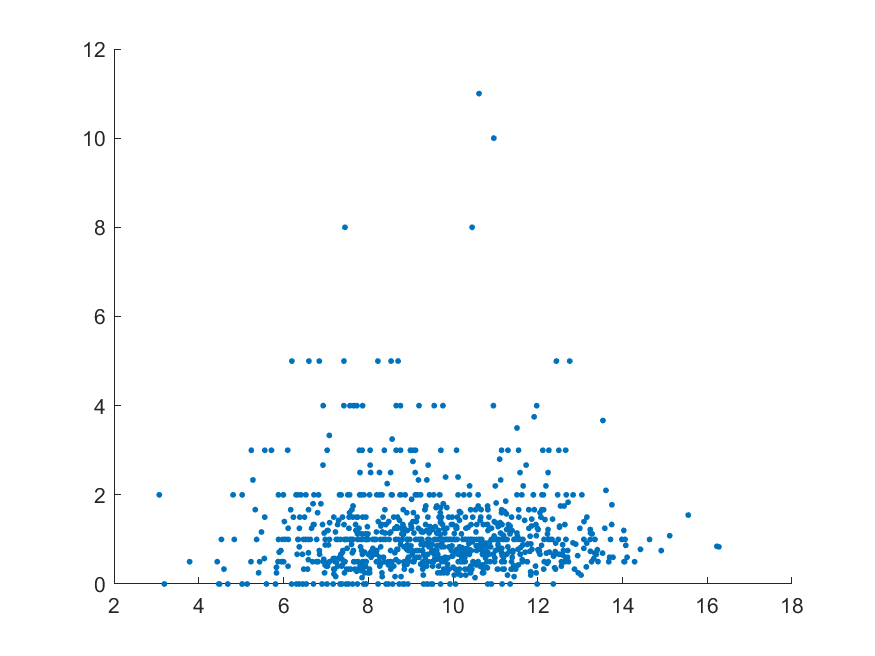
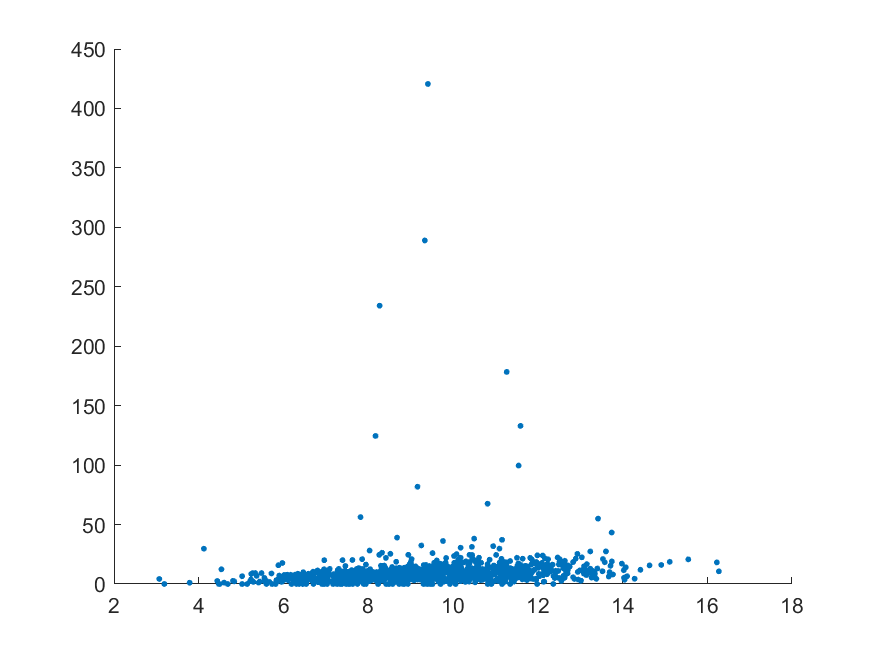
Plot Update

diff --git a/ModelAttemptWPF/Analysis/scatterTraits.m b/ModelAttemptWPF/Analysis/scatterTraits.m
@@ -34,34 +34,36 @@ for fileIndex = 1:varParamVals_len
         runParam = [varParamVals{fileIndex} int2str(i)];
         disp(runParam)
         nSharesPop=csvread(fileName,1,1);
-        OL(i,:)=nSharesPop(:,7);
-        fakeShares(i,:)=nSharesPop(:,9);
+        nFollowers(i,:)=nSharesPop(:,1);
         o(i,:)=nSharesPop(:,2);
         c(i,:)=nSharesPop(:,3);
         e(i,:)=nSharesPop(:,4);
         a(i,:)=nSharesPop(:,5);
         n(i,:)=nSharesPop(:,6);
-        trueShares(i,:)=nSharesPop(:,10);
+        OL(i,:)=nSharesPop(:,7);
+        trueShares(i,:)=nSharesPop(:,8);
+        fakeShares(i,:)=nSharesPop(:,9);
+        ratio(i,:)=nSharesPop(:,10);
         freqUse(i,:)=nSharesPop(:,11);
         sessionLength(i,:)=20.*(nSharesPop(:,12));
         shareFreq(i,:)=nSharesPop(:,13);
-        ratio(i,:)=nSharesPop(:,9)./nSharesPop(:,10);
-        nFollowers(i,:)=nSharesPop(:,1);
     end
-    OL_all=reshape(OL,[1,nRuns.*population]);
-    fakeShares_all=reshape(fakeShares,[1,nRuns*population]);
-    trueShares_all=reshape(trueShares,[1,nRuns*population]);
-    ratio_all=reshape(ratio,[1,nRuns*population]);
     nFollowers_all=reshape(nFollowers,[1,nRuns*population]);
     o_all=reshape(o,[1,nRuns*population]);
     c_all=reshape(c,[1,nRuns*population]);
     e_all=reshape(e,[1,nRuns*population]);
     a_all=reshape(a,[1,nRuns*population]);
     n_all=reshape(n,[1,nRuns*population]);
-    shareFreq_all=reshape(shareFreq,[1,nRuns*population]);
-    sessionLength_all=reshape(sessionLength,[1,nRuns*population]);
-    roundSL_all=ceil(sessionLength_all);
+    OL_all=reshape(OL,[1,nRuns.*population]);
+    trueShares_all=reshape(trueShares,[1,nRuns*population]);
+    fakeShares_all=reshape(fakeShares,[1,nRuns*population]);
+    ratio_all=reshape(ratio,[1,nRuns*population]);
     freqUse_all=reshape(freqUse,[1,nRuns*population]);
+    sessionLength_all=reshape(sessionLength,[1,nRuns*population]);
+    % // TODO 
+    % ? Should this be a ceiling function
+    roundSL_all=ceil(sessionLength_all);
+    shareFreq_all=reshape(shareFreq,[1,nRuns*population]);
     % sort them all
     %[OL_all,indices]=sort(OL_all);
     %fakeShares_all=fakeShares_all(indices);
@@ -97,71 +99,73 @@ for fileIndex = 1:varParamVals_len
     histogram(e_all,nBins,'Normalization','pdf');
     eLine=normpdf(sort(e_all),0.648,0.164);
     hold on
-    % plot(sort(e_all),eLine,'k-','LineWidth',2)
+    %plot(sort(e_all),eLine,'k-','LineWidth',2)
     hold off
 
     figure()
     histogram(o_all,nBins,'Normalization','pdf');
     oLine=normpdf(sort(o_all),0.734,0.128);
     hold on
-    % plot(sort(o_all),oLine,'k-','LineWidth',2)
+    %plot(sort(o_all),oLine,'k-','LineWidth',2)
     hold off
 
     figure()
     histogram(c_all,nBins,'Normalization','pdf');
     cLine=normpdf(sort(c_all),0.73,0.14);
     hold on
-    % plot(sort(c_all),cLine,'k-','LineWidth',2)
+    %plot(sort(c_all),cLine,'k-','LineWidth',2)
     hold off
 
     figure()
     histogram(a_all,nBins,'Normalization','pdf');
     aLine=normpdf(sort(a_all),0.748,0.124);
     hold on
-    % plot(sort(a_all),aLine,'k-','LineWidth',2)
+    %plot(sort(a_all),aLine,'k-','LineWidth',2)
     hold off
 
     figure()
     histogram(n_all,nBins,'Normalization','pdf');
     nLine=normpdf(sort(n_all),0.594,0.16);
     hold on
-    % plot(sort(n_all),nLine,'k-','LineWidth',2)
+    %plot(sort(n_all),nLine,'k-','LineWidth',2)
     hold off
     %%
-    % plotScatter(o_all,ratio_all,'Openness','Ratio of fake to true shares')
-    % plotScatter(c_all,ratio_all,'Conscientiousness','Ratio of fake to true shares')
-    % plotScatter(e_all,ratio_all,'Extroversion','Ratio of fake to true shares')
-    % plotScatter(a_all,ratio_all,'Agreeableness','Ratio of fake to true shares')
-    % plotScatter(n_all,ratio_all,'Neuroticism','Ratio of fake to true shares')
+    plotScatter(o_all,ratio_all,'Openness','Ratio of fake to true shares')
+    plotScatter(c_all,ratio_all,'Conscientiousness','Ratio of fake to true shares')
+    plotScatter(e_all,ratio_all,'Extroversion','Ratio of fake to true shares')
+    plotScatter(a_all,ratio_all,'Agreeableness','Ratio of fake to true shares')
+    plotScatter(n_all,ratio_all,'Neuroticism','Ratio of fake to true shares')
     %%
     % close all
-    % plotScatter(c_all,freqUse_all,'Conscientiousness','Frequeny of use')
-    % plotScatter(e_all,freqUse_all,'Extroversion','Frequency of use')
-    % plotScatter(a_all,freqUse_all,'Agreeableness','Frequency of use')
-    % plotScatter(n_all,freqUse_all,'Neuroticism','Frequency of use')
+    plotScatter(c_all,freqUse_all,'Conscientiousness','Frequeny of use')
+    plotScatter(e_all,freqUse_all,'Extroversion','Frequency of use')
+    plotScatter(a_all,freqUse_all,'Agreeableness','Frequency of use')
+    plotScatter(n_all,freqUse_all,'Neuroticism','Frequency of use')
     %%
     % close all
-    % plotScatter(c_all,sessionLength_all,'Conscientiousness','Frequeny of use')
-    % plotScatter(e_all,freqUse_all,'Extroversion','Frequency of use')
-    % plotScatter(a_all,freqUse_all,'Agreeableness','Frequency of use')
-    % plotScatter(n_all,freqUse_all,'Neuroticism','Frequency of use')
+    plotScatter(c_all,sessionLength_all,'Conscientiousness','Frequeny of use')
+    plotScatter(e_all,freqUse_all,'Extroversion','Frequency of use')
+    plotScatter(a_all,freqUse_all,'Agreeableness','Frequency of use')
+    plotScatter(n_all,freqUse_all,'Neuroticism','Frequency of use')
     %%
     % close all
-    % plotScatter(c_all,fakeShares_all,'Conscientiousness','Number of fake shares')
-    hold on
-    % plotScatter(e_all,fakeShares_all,'Extroversion','Number of fake shares')
-    hold on
-    % plotScatter(a_all,fakeShares_all,'Agreeableness','Number of fake shares')
-    % plotScatter(n_all,fakeShares_all,'Neuroticism','Number of fake shares')
+    plotScatter(c_all,fakeShares_all,'Conscientiousness','Number of fake shares')
+    % // TODO
+    % ? hold on
+    plotScatter(e_all,fakeShares_all,'Extroversion','Number of fake shares')
+    % // TODO
+    % ? off
+    plotScatter(a_all,fakeShares_all,'Agreeableness','Number of fake shares')
+    plotScatter(n_all,fakeShares_all,'Neuroticism','Number of fake shares')
     %%
     % close all
-    % plotScatter(c_all,sessionLength_all,'Conscientiousness','Session length (number of news posts)')
+    plotScatter(c_all,sessionLength_all,'Conscientiousness','Session length (number of news posts)')
 
-    % plotScatter(e_all,sessionLength_all,'Extroversion','Session length (number of news posts)')
-    % plotScatter(n_all,sessionLength_all,'Neuroticism','Session length (number of news posts)')
+    plotScatter(e_all,sessionLength_all,'Extroversion','Session length (number of news posts)')
+    plotScatter(n_all,sessionLength_all,'Neuroticism','Session length (number of news posts)')
     %%
     % close all
-    % plotScatter(freqUse_all,fakeShares_all,'Frequency of use','Number of fake shares')
+    plotScatter(freqUse_all,fakeShares_all,'Frequency of use','Number of fake shares')
 
     figure()
     scatter(freqUse_all,ratio_all);
@@ -180,48 +184,48 @@ for fileIndex = 1:varParamVals_len
     ylabel('Number of shares of fake news')
     %%
     % close all
-    % plotScatter(sessionLength_all,fakeShares_all,'Session length (number of news posts)','Number of fake shares');
-    % plotScatter(sessionLength_all,ratio_all,'Session length (number of news posts)','Ratio of fake to true news');
-    % plotScatter(shareFreq_all,ratio_all,'Share frequency','Number of fake shares')
+    plotScatter(sessionLength_all,fakeShares_all,'Session length (number of news posts)','Number of fake shares');
+    plotScatter(sessionLength_all,ratio_all,'Session length (number of news posts)','Ratio of fake to true news');
+    plotScatter(shareFreq_all,ratio_all,'Share frequency','Number of fake shares')
     %%
     % close all
-    % plotScatter(c_all,sessionLength_all,'Conscientiousness','Session length (number of news posts)')
+    plotScatter(c_all,sessionLength_all,'Conscientiousness','Session length (number of news posts)')
     hold on
     cFit= -6.021.*c_all+10.12;
     cUpper=-5.959.*c_all+10.16;
     cLower=-6.084.*c_all+10.07;
     cRMSE=0.9361;
-    % plot(c_all,cFit,'w-','LineWidth',2)
-    % plot(c_all,cFit+cRMSE,'y--','LineWidth',2)
-    % plot(c_all,cFit-cRMSE,'y--','LineWidth',2)
+    %plot(c_all,cFit,'w-','LineWidth',2)
+    %plot(c_all,cFit+cRMSE,'y--','LineWidth',2)
+    %plot(c_all,cFit-cRMSE,'y--','LineWidth',2)
     hold off
     %      f(x) = p1*x + p2
     % Coefficients (with 95% confidence bounds):
     %        p1 =      -6.021  (-6.084, -5.959)
     %        p2 =       10.12  (10.07, 10.16)
-    % plotScatter(e_all,sessionLength_all,'Extroversion','Session length (number of news posts)')
+    plotScatter(e_all,sessionLength_all,'Extroversion','Session length (number of news posts)')
     hold on
     eFit=5.067.*e_all+2.535;
     eUpper=5.118.*e_all+2.57;
     eLower=5.015.*e_all+2.501;
     eRMSE=0.9273;
-    % plot(e_all,eFit,'w-','LineWidth',2)
-    % plot(e_all,eFit-eRMSE,'y--','LineWidth',2)
-    % plot(e_all,eFit+eRMSE,'y--','LineWidth',2)
+    %plot(e_all,eFit,'w-','LineWidth',2)
+    %plot(e_all,eFit-eRMSE,'y--','LineWidth',2)
+    %plot(e_all,eFit+eRMSE,'y--','LineWidth',2)
     hold off
     %      f(x) = p1*x + p2
     % Coefficients (with 95% confidence bounds):
     %        p1 =       5.067  (5.015, 5.118)
     %        p2 =       2.535  (2.501, 2.57)
-    % plotScatter(n_all,sessionLength_all,'Neuroticism','Session length (number of news posts)')
+    plotScatter(n_all,sessionLength_all,'Neuroticism','Session length (number of news posts)')
     hold on
     nFit=3.032.*n_all+3.983;
     nUpper=3.095.*n_all+4.021;
     nLower=2.97.*n_all+3.945;
     nRMSE=1.125;
-    % plot(n_all,nFit,'w-','LineWidth',2)
-    % plot(n_all,nFit+nRMSE,'y--','LineWidth',2)
-    % plot(n_all,nFit-nRMSE,'y--','LineWidth',2)
+    %plot(n_all,nFit,'w-','LineWidth',2)
+    %plot(n_all,nFit+nRMSE,'y--','LineWidth',2)
+    %plot(n_all,nFit-nRMSE,'y--','LineWidth',2)
     hold off
     %    f(x) = p1*x + p2
     % Coefficients (with 95% confidence bounds):
@@ -230,11 +234,11 @@ for fileIndex = 1:varParamVals_len
 
     %%
     % close all
-    % plotScatter(o_all,fakeShares_all,'o','n fake shares')
-    % plotScatter(c_all,fakeShares_all,'c','n fake shares')
-    % plotScatter(n_all,ratio_all,'n','ratio')
-    % plotScatter(a_all,fakeShares_all,'a','n fake shares')
-    % plotScatter(e_all,fakeShares_all,'e','number of fake shares')
+    plotScatter(o_all,fakeShares_all,'o','n fake shares')
+    plotScatter(c_all,fakeShares_all,'c','n fake shares')
+    plotScatter(n_all,ratio_all,'n','ratio')
+    plotScatter(a_all,fakeShares_all,'a','n fake shares')
+    plotScatter(e_all,fakeShares_all,'e','number of fake shares')
 
     %%
     %heatmap
@@ -270,8 +274,11 @@ for fileIndex = 1:varParamVals_len
     ylabel('Ratio of fake to true shares')
     fit=4.43./(81.78.*OL_all +16.12) +0.1216;
     [OL_all2,ind]=sort(OL_all);
-    % plot(OL_all2,fit(ind),'k-')
-    % plot(OL_all2,fit(ind).*2,'k--')
+    %plot(OL_all2,fit(ind),'k-')
+    %plot(OL_all2,fit(ind).*2,'k--')
+    hold off
+    saveName = [runParam  '_thing.png'];
+    saveas(gcf, saveName)
     legend('Data','fit to y= d +(a/(bx +c))','Probability ratio')
     %     f(x) = a./(b.*x +c) +d
     % Coefficients (with 95% confidence bounds):
@@ -299,12 +306,13 @@ for fileIndex = 1:varParamVals_len
 
 
     fit100=-1611*OL_all2.^6 + 5313*OL_all2.^5 + -6776*OL_all2.^4 + 4094*OL_all2.^3 + -1047*OL_all2.^2 + -39.71*OL_all2 + 81.33;
-    %% plot(OL_all2,fit100,'w-','LineWidth',2);
+    %% garble(OL_all2,fit100,'w-','LineWidth',2);
 
     %upper100=37.74./(OL_all+0.4454)-12.96;
     %lower100=34.36./(OL_all+0.412)-15.12;
-    %% plot(OL_all,upper100,'y--','LineWidth',2)
-    %% plot(OL_all,lower100,'y--','LineWidth',2)
+    %% garble(OL_all,upper100,'y--','LineWidth',2)
+    %% garble(OL_all,lower100,'y--','LineWidth',2)
+    hold off
     legend('Data','fit')
     xlabel('Online literacy')
     ylabel('Number of fake news shares')

diff --git a/ModelAttemptWPF/Analysis/analyze.m b/ModelAttemptWPF/Analysis/analyze.m
@@ -3,22 +3,22 @@ clear;
 script_path = fileparts(mfilename('fullpath'));
 cd (script_path);
 
-runParamsFileName = fullfile('..', 'runParams.txt');
-runParamsFile = fopen(runParamsFileName, 'r');
-runParams = textscan(runParamsFile, '%s', 'CommentStyle', '#');
-runParams = runParams{1};
-fclose(runParamsFile);
+runParamsInputFileName = fullfile('..', 'runParamsInput.txt');
+runParamsInputFile = fopen(runParamsInputFileName, 'r');
+runParamsInput = textscan(runParamsInputFile, '%s', 'CommentStyle', '#');
+runParamsInput = runParamsInput{1};
+fclose(runParamsInputFile);
 
-nRuns = str2num(runParams{1});
-population = str2num(runParams{2});
-nTrue = str2num(runParams{3});
-nFake = str2num(runParams{4});
+nRuns = str2num(runParamsInput{1});
+population = str2num(runParamsInput{2});
+nTrue = str2num(runParamsInput{3});
+nFake = str2num(runParamsInput{4});
 fakeShares=zeros(nRuns,population);
 nFollowers=zeros(nRuns,population);
 
-runParams_len = size(runParams);
-runParams_len = runParams_len(1);
-varParamVals = runParams{runParams_len};
+runParamsInput_len = size(runParamsInput);
+runParamsInput_len = runParamsInput_len(1);
+varParamVals = runParamsInput{runParamsInput_len};
 varParamVals = strsplit(varParamVals, ',');
 varParamVals_len = size(varParamVals);
 varParamVals_len = varParamVals_len(2);
@@ -34,4 +34,75 @@ for i = 1:nRuns
         ['OL60_' int2str(i)]});
         resultsPaths{i, j} = fullfile(tempPath{j}, 'nSharesPopulation.csv');
     end
+end
+
+%%
+
+plotParamsFileName = fullfile('..', 'plotParams.txt');
+plotParamsFile = fopen(plotParamsFileName, 'r');
+plotParamsString = textscan(plotParamsFile, '%s', 'CommentStyle', '#');
+plotParamsString = plotParamsString{1};
+fclose(plotParamsFile);
+
+plotParamsString_len = size(plotParamsString);
+plotParamsString_len = plotParamsString_len(1);
+plotParams = cell(plotParamsString_len, 2);
+for idx = 1:plotParamsString_len
+    splitPlotParamString = plotParamsString{idx};
+    splitPlotParamString = strsplit(splitPlotParamString, ',');
+    plotParams{idx, 1} = splitPlotParamString{1};
+    plotParams{idx, 2} = splitPlotParamString{2};
+end
+
+%%
+
+for i=1:nRuns
+    fileName = resultsPaths{i, fileIndex};
+    disp(fileName)
+    varParam = [varParamVals{fileIndex} int2str(i)];
+    nSharesPop=csvread(fileName,1,1);
+    nFollowers(i,:)=nSharesPop(:,1);
+    o(i,:)=nSharesPop(:,2);
+    c(i,:)=nSharesPop(:,3);
+    e(i,:)=nSharesPop(:,4);
+    a(i,:)=nSharesPop(:,5);
+    n(i,:)=nSharesPop(:,6);
+    OL(i,:)=nSharesPop(:,7);
+    trueShares(i,:)=nSharesPop(:,8);
+    fakeShares(i,:)=nSharesPop(:,9);
+    ratio(i,:)=nSharesPop(:,10);
+    freqUse(i,:)=nSharesPop(:,11);
+    sessionLength(i,:)=20.*(nSharesPop(:,12));
+    shareFreq(i,:)=nSharesPop(:,13);
+end
+plotVars.nFollowers=reshape(nFollowers,[1,nRuns*population]);
+plotVars.o=reshape(o,[1,nRuns*population]);
+plotVars.c=reshape(c,[1,nRuns*population]);
+plotVars.e=reshape(e,[1,nRuns*population]);
+plotVars.a=reshape(a,[1,nRuns*population]);
+plotVars.n=reshape(n,[1,nRuns*population]);
+plotVars.OL=reshape(OL,[1,nRuns.*population]);
+plotVars.trueShares=reshape(trueShares,[1,nRuns*population]);
+plotVars.fakeShares=reshape(fakeShares,[1,nRuns*population]);
+plotVars.ratio=reshape(ratio,[1,nRuns*population]);
+plotVars.freqUse=reshape(freqUse,[1,nRuns*population]);
+plotVars.sessionLength=reshape(sessionLength,[1,nRuns*population]);
+% // TODO 
+% ? Should this be a ceiling function
+plotVars.roundSL=ceil(plotVars.sessionLength);
+plotVars.shareFreq=reshape(shareFreq,[1,nRuns*population]);
+
+%%
+
+
+
+%%
+
+function []=plotScatter(x,y,xtitle,ytitle)
+    %  [x, indices]=sort(x);
+    %   y=y(indices);
+    figure()
+    scatter(x,y,3)
+    xlabel(xtitle)
+    ylabel(ytitle)
 end
